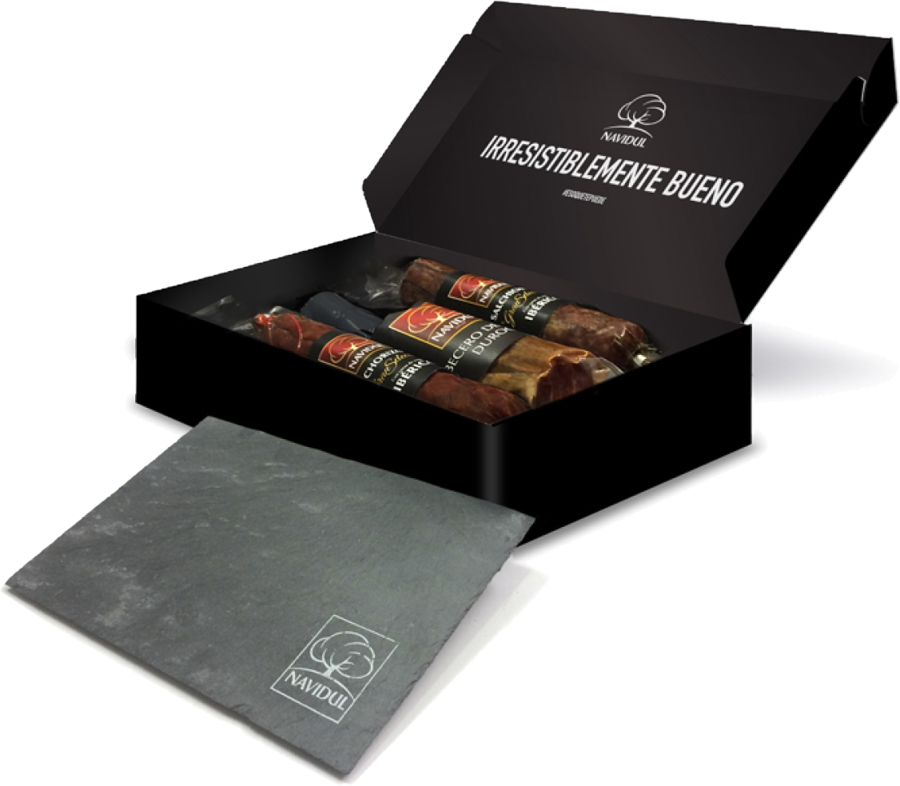
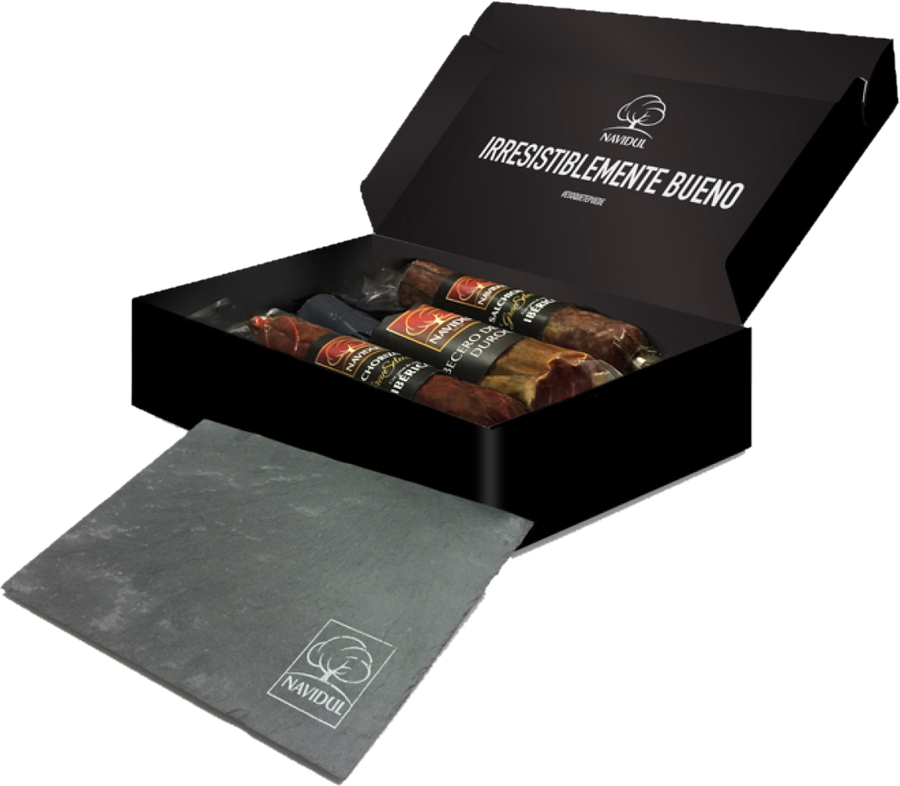
Navidul: lotes con el fondo blanco y las sombras claras bien eliminados
Claude-Session: https://claude.ai/code/session_01FJ9bb3Zq5ukMTz3hrkS8GF

diff --git a/refrigerados-products.js b/refrigerados-products.js
@@ -54,8 +54,8 @@
     {group:'Navidul',brand:'Navidul',name:'Jamón cebo ibérico · pieza de 7,5-8 kg',blk:'navidul',uso:'h',cod:'26027',peek:'assets/refrigerados/extra/navidul_jamon-cebo-iberico.png',pw:192,ph:566,peekAlt:'Jamón de cebo ibérico 50 % raza ibérica de Navidul, pieza entera con su etiqueta'},
     {group:'Navidul',brand:'Navidul',name:'Lonchas de jamón curado · 500 g',blk:'navidul',uso:'h',cod:'26008',peek:'assets/refrigerados/extra/navidul_jamon-curado-500-horeca.png',pw:604,ph:900,peekAlt:'Lonchas de jamón curado de Navidul para hostelería, envase de 500 g con 26 lonchas'},
     {group:'Navidul',brand:'Navidul',name:'Salchichón cular ibérico · kg',blk:'navidul',uso:'h',cod:'26010',peek:'assets/refrigerados/extra/navidul_salchichon-cular-iberico.png',pw:159,ph:752,peekAlt:'Salchichón cular ibérico Gran Selección de Navidul, pieza entera con su etiqueta'},
-    {group:'Navidul',brand:'Navidul',name:'Lote jamón Navidul Gran Selección · 7,5 kg + chorizo + vino',blk:'navidul',uso:'h',peek:'assets/refrigerados/extra/navidul_lote-sencillamente-bueno.png',pw:775,ph:622,peekAlt:'Lote de Navidad Navidul: jamón Gran Selección, chorizo ibérico y vino de Rioja en estuche'},
-    {group:'Navidul',brand:'Navidul',name:'Lote embutidos Gran Selección · ibéricos y pizarra',blk:'navidul',uso:'h',peek:'assets/refrigerados/extra/navidul_lote-irresistiblemente-bueno.png',pw:900,ph:786,peekAlt:'Lote de Navidad Navidul de embutidos Gran Selección: caja negra con chorizo, salchichón y cabecero ibéricos y una pizarra'},
+    {group:'Navidul',brand:'Navidul',name:'Lote jamón Navidul Gran Selección · 7,5 kg + chorizo + vino',blk:'navidul',uso:'h',peek:'assets/refrigerados/extra/navidul_lote-sencillamente-bueno.png?v=2',pw:775,ph:603,peekAlt:'Lote de Navidad Navidul: jamón Gran Selección, chorizo ibérico y vino de Rioja en estuche'},
+    {group:'Navidul',brand:'Navidul',name:'Lote embutidos Gran Selección · ibéricos y pizarra',blk:'navidul',uso:'h',peek:'assets/refrigerados/extra/navidul_lote-irresistiblemente-bueno.png?v=2',pw:900,ph:786,peekAlt:'Lote de Navidad Navidul de embutidos Gran Selección: caja negra con chorizo, salchichón y cabecero ibéricos y una pizarra'},
     {group:'Navidul alimentación',brand:'Navidul',name:'Chorizo ibérico · 40 g',blk:'navidul-alimentacion',uso:'a',cod:'26050',peek:'assets/refrigerados/extra/navidul_chorizo-iberico-40g.png',pw:305,ph:549,peekAlt:'Chorizo ibérico Gran Selección de Navidul en lonchas, sobre de 40 g'},
     {group:'Navidul alimentación',brand:'Navidul',name:'Lomo embuchado · 40 g',blk:'navidul-alimentacion',uso:'a',cod:'26317',peek:'assets/refrigerados/extra/navidul_lomo-embuchado-40g.png',pw:305,ph:549,peekAlt:'Caña de lomo clásico de Navidul en lonchas, sobre de 40 g'},
     {group:'Navidul alimentación',brand:'Navidul',name:'Jamón curado · 45 g',blk:'navidul-alimentacion',uso:'a',cod:'26300',peek:'assets/refrigerados/extra/navidul_jamon-curado-45g.png',pw:197,ph:388,peekAlt:'Jamón curado bodega de Navidul en lonchas, sobre de 45 g'},

diff --git a/refrigerados.html b/refrigerados.html
@@ -84,7 +84,7 @@
   </main>
   <footer class="pw-footer"><span>Fotografías de producto: Reny Picot, Pascual, Rogusa y Campofrío</span><a href="https://www.facebook.com/share/1LfPCX2kSw/" target="_blank" rel="noopener">Facebook</a><a href="https://www.instagram.com/distrvalentinmartin/" target="_blank" rel="noopener">Instagram</a><a href="aviso-legal.html">Aviso legal</a><a href="privacidad.html">Política de privacidad</a><a href="index.html#inicio">Volver a inicio ↑</a></footer>
   <script src="precios.js?v=e91f9a24" defer></script>
-  <script src="refrigerados-products.js?v=26cf0b4a" defer></script>
+  <script src="refrigerados-products.js?v=9a3f35cd" defer></script>
 <script src="site-header.js?v=ae2d779e" defer></script>
 <script src="cookies.js?v=a255d7c1" defer></script>
 <script src="estadisticas.js?v=30c3e111" defer></script>
